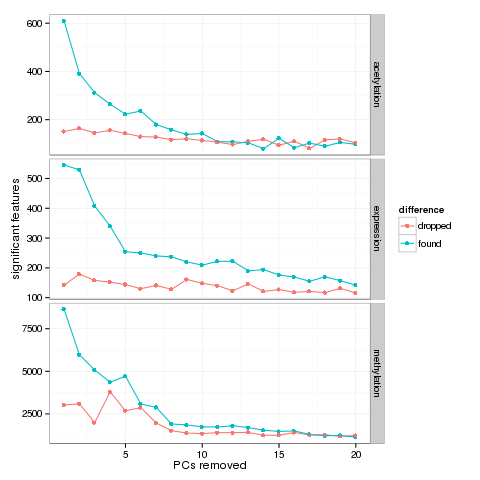
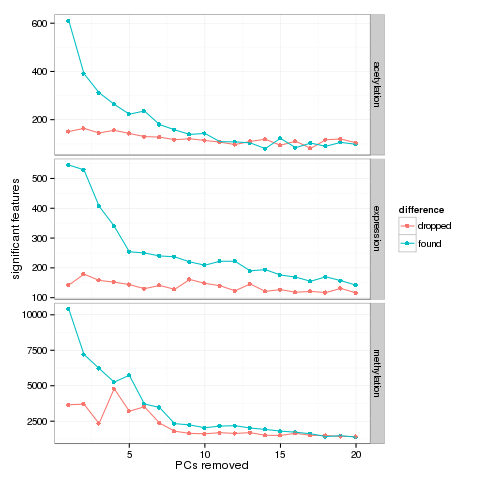
Finished overlap graphs with all chrs

diff --git a/analysis/qtl_overlap.md b/analysis/qtl_overlap.md
@@ -1,1 +1,5 @@
-|        | eQTLs| aceQTLs| meQTLs| |:-------|-----:|-------:|------:| |eQTLs   |  5377|    1436|   3714| |aceQTLs |  1655|    4330|   2998| |meQTLs  | 10796|    8151|  76467|
+|        | eQTLs| aceQTLs| meQTLs|
+|:-------|-----:|-------:|------:|
+|eQTLs   |  5377|    1436|   3714|
+|aceQTLs |  1655|    4330|   2998|
+|meQTLs  | 10791|    8148|  92109|
